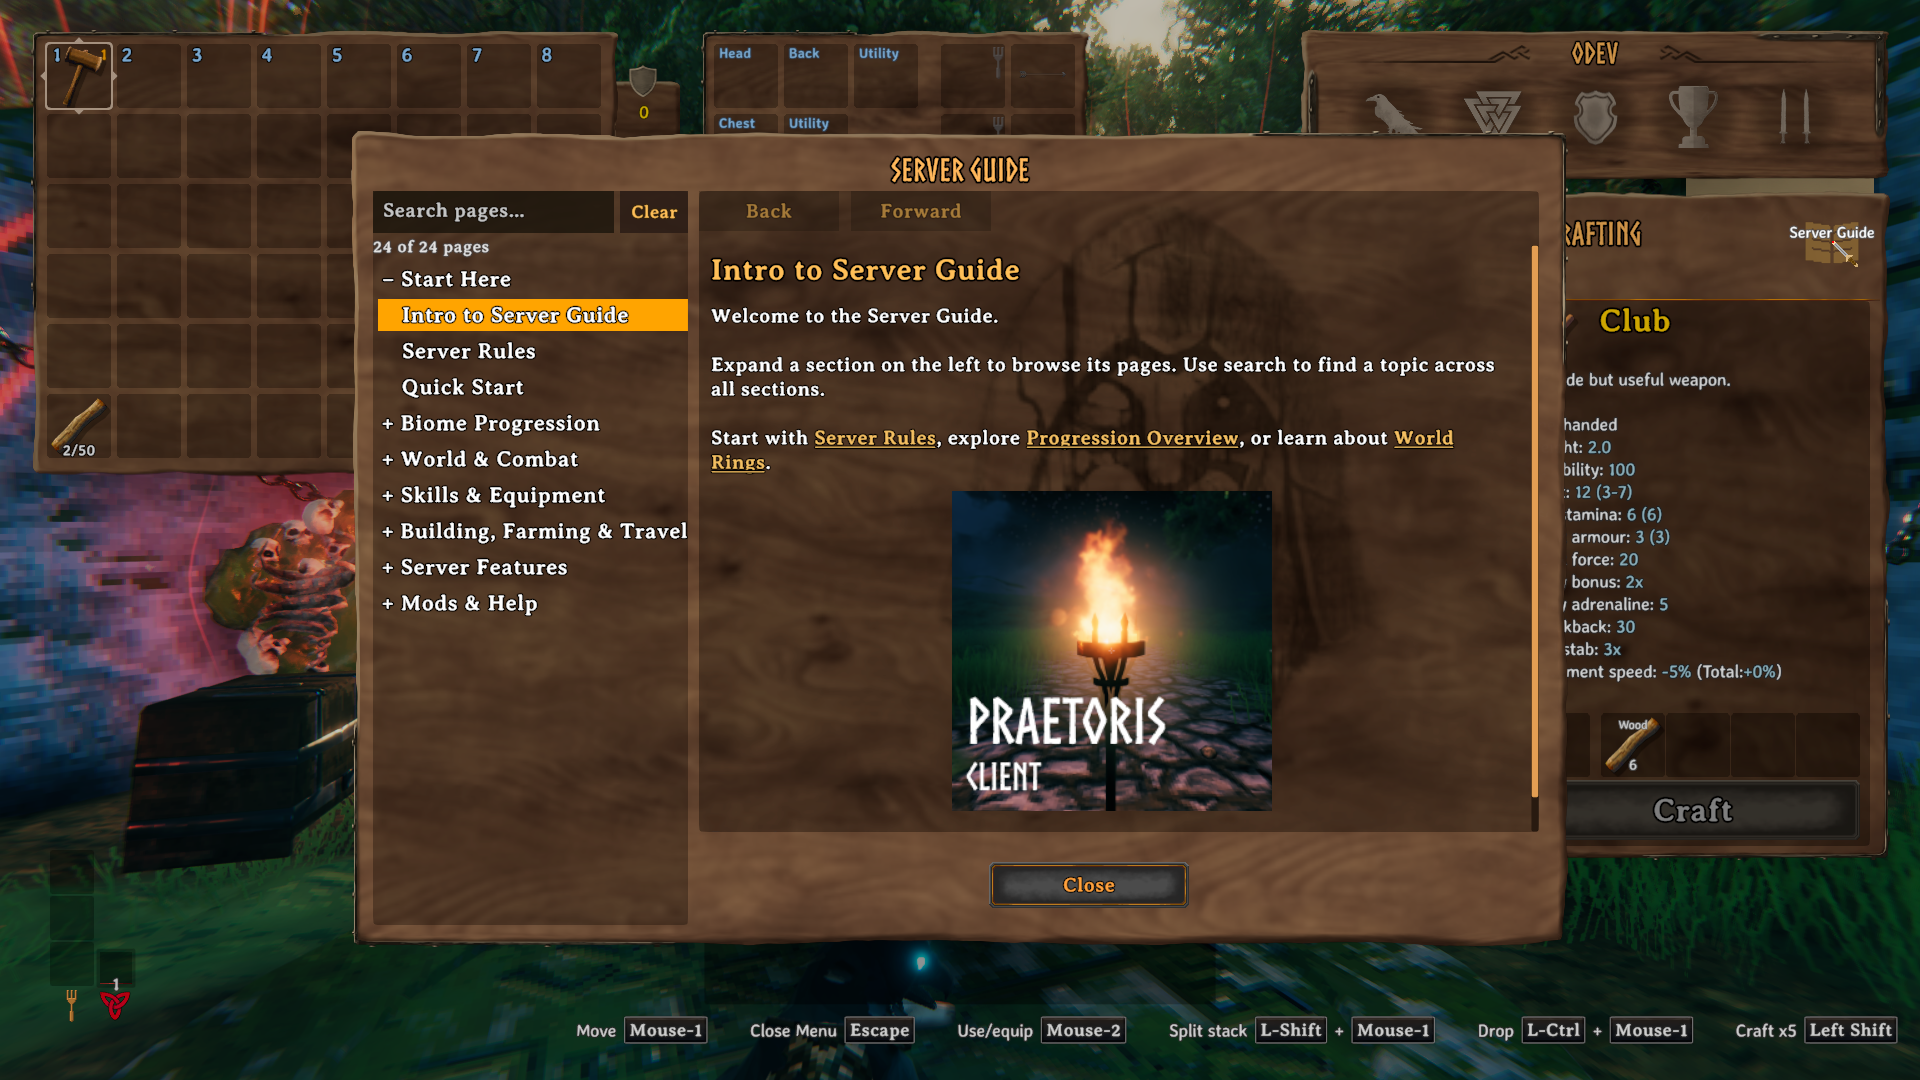
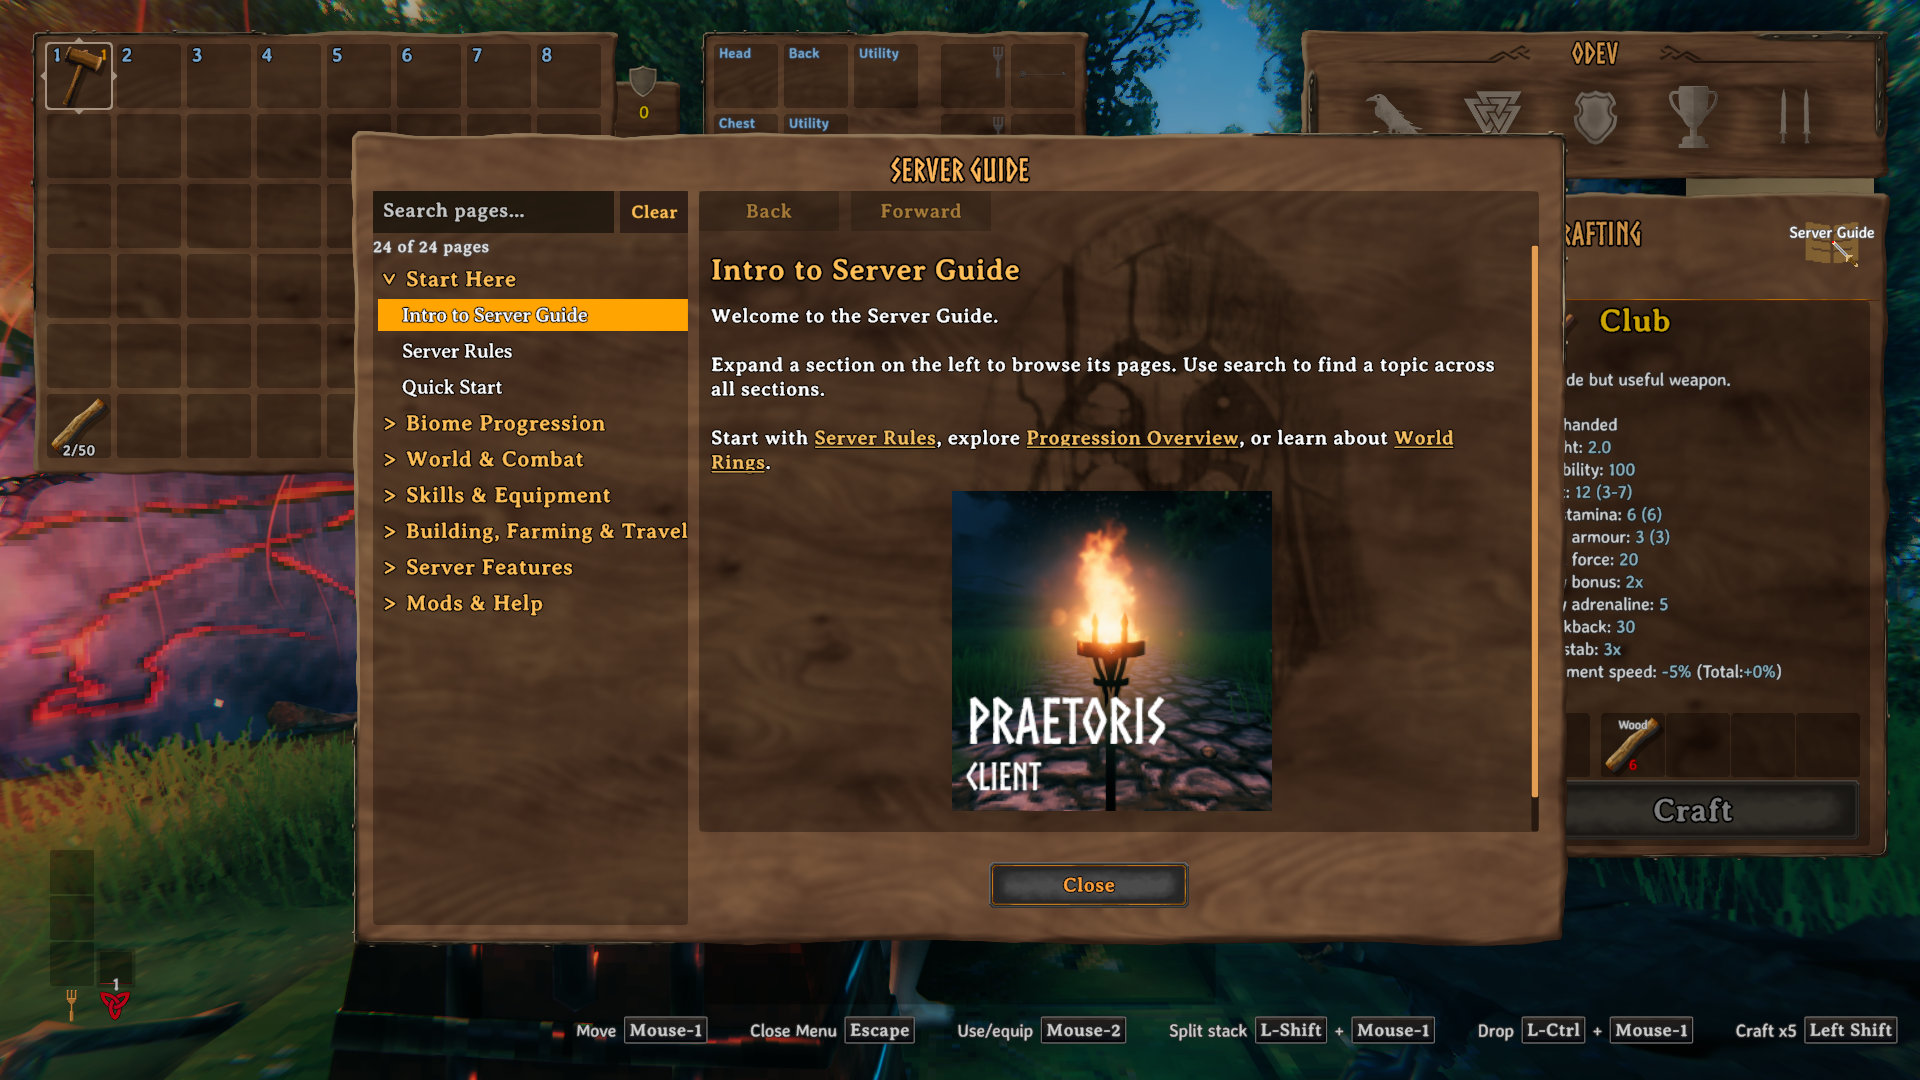
Distinguish guide sections with chevrons and gold headings

diff --git a/Source/ServerGuide/GuideReader.cs b/Source/ServerGuide/GuideReader.cs
@@ -100,7 +100,7 @@ namespace PraetorisClient.ServerGuideFeature
                 if (page.Section.Length > 0 && !_sections.ContainsKey(page.Section))
                 {
                     string section = page.Section;
-                    GameObject header = CreateEntry(section, false);
+                    GameObject header = CreateEntry(section, false, true);
                     Utils.FindChild(header.transform, "selected").gameObject.SetActive(false);
                     header.GetComponent<Button>().onClick.AddListener(() =>
                     {
@@ -313,7 +313,7 @@ namespace PraetorisClient.ServerGuideFeature
             label.sizeDelta = new Vector2(0, 24);
         }
 
-        private GameObject CreateEntry(string title, bool indent)
+        private GameObject CreateEntry(string title, bool indent, bool section = false)
         {
             GameObject entry = Instantiate(_dialog.m_elementPrefab, _dialog.m_listRoot);
             TMP_Text label = Utils.FindChild(entry.transform, "name").GetComponent<TMP_Text>();
@@ -321,11 +321,29 @@ namespace PraetorisClient.ServerGuideFeature
             label.richText = false;
             label.enableAutoSizing = true;
             label.fontSizeMin = 16;
-            label.fontSizeMax = 22;
+            label.fontSizeMax = section ? 22 : 20;
+            label.fontStyle = section ? FontStyles.Bold : FontStyles.Normal;
+            if (section) label.color = new Color(1f, 0.75f, 0.35f);
 #pragma warning disable CS0618 // Shared API across the game's TextMesh Pro versions.
             label.enableWordWrapping = false;
 #pragma warning restore CS0618
             label.overflowMode = TextOverflowModes.Ellipsis;
+            if (section)
+            {
+                TMP_Text chevron = Instantiate(label, entry.transform);
+                chevron.name = "SectionChevron";
+                chevron.text = ">";
+                chevron.enableAutoSizing = false;
+                chevron.fontSize = 24;
+                chevron.alignment = TextAlignmentOptions.Center;
+                chevron.raycastTarget = false;
+                RectTransform icon = chevron.rectTransform;
+                icon.anchorMin = icon.anchorMax = new Vector2(0, 0.5f);
+                icon.pivot = new Vector2(0.5f, 0.5f);
+                icon.sizeDelta = new Vector2(24, 28);
+                icon.anchoredPosition = new Vector2(12, 0);
+                label.rectTransform.offsetMin += new Vector2(24, 0);
+            }
             if (indent) label.rectTransform.offsetMin += new Vector2(20, 0);
             entry.GetComponent<Button>().onClick = new Button.ButtonClickedEvent();
             return entry;
@@ -347,7 +365,7 @@ namespace PraetorisClient.ServerGuideFeature
                     bool visible = matchingSections.Contains(page.Section);
                     header.SetActive(visible);
                     bool expanded = searching || _expanded.Contains(page.Section);
-                    Utils.FindChild(header.transform, "name").GetComponent<TMP_Text>().text = (expanded ? "− " : "+ ") + page.Section;
+                    Utils.FindChild(header.transform, "SectionChevron").localRotation = Quaternion.Euler(0, 0, expanded ? -90f : 0f);
                     header.GetComponent<Button>().interactable = !searching;
                     if (visible) ((RectTransform)header.transform).anchoredPosition = new Vector2(0, -index++ * _dialog.m_spacing);
                 }
